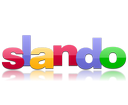
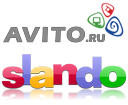
Добавлено слежение за объявлениями на Avito.ru

diff --git a/ab-tracking-advertisements/main.js b/ab-tracking-advertisements/main.js
@@ -8,17 +8,22 @@
 function main(){
 	var prefs = AnyBalance.getPreferences();
 	var region = prefs.region;
+	var region_a = prefs.region_a;
 	var pattern = prefs.pattern;
 
 
-	AnyBalance.trace('Selected region: ' + region);
+//Slando
+	AnyBalance.trace('Selected region (Slando): ' + region);
 
 	var pattern1=pattern.replace(" ","+");
 	var baseurl = 'http://'+region+'.slando.ru/list/?q='+pattern1;
+
+//Avito
+	var baseurl_a = 'http://www.avito.ru/'+region_a+'?name='+pattern1;
 	AnyBalance.setDefaultCharset('utf-8');
 
-
-	AnyBalance.trace('Starting search: ' + baseurl);
+//Slando
+	AnyBalance.trace('Starting search (Slando): ' + baseurl);
 	var info = AnyBalance.requestGet(baseurl);
 
 	var error = $('#errHolder', info).text();
@@ -30,8 +35,8 @@ function main(){
 
 	result.__tariff = pattern;
 
-	if(AnyBalance.isAvailable('found') && (matches = info.match(/<li class="fleft">\s*<span class="fleft tab selected">\s*<span class="fbold">Продам<\/span>\s*<span class="color-2 normal">(\d+)<\/span>\s*<\/span>\s*<\/li>/i))){
-		result.found = matches[1];
+	if((AnyBalance.isAvailable('found') || AnyBalance.isAvailable('found_total')) && (matches = info.match(/<li class="fleft">\s*<span class="fleft tab selected">\s*<span class="fbold">Продам<\/span>\s*<span class="color-2 normal">(\d+)<\/span>\s*<\/span>\s*<\/li>/i))){
+		result.found = parseInt(matches[1]);
 	}
 
 	var price=null;
@@ -47,7 +52,7 @@ function main(){
 			price = matches[1];
 		if(price!=null) result.last = result.last + " – " + price;
 		if(matches = info.match(/<h3 class="large lheight20 margintop10">\s*<a href="(.*?)l" class="link linkWithHash clicker {clickerID:'ads_title'}">/i))
-			AnyBalance.trace('See link to the last post: '+matches[1]);
+			AnyBalance.trace('See link to the last post (Slando): '+matches[1]);
 	}
 
 	if(AnyBalance.isAvailable('region') && (matches = info.match(/<span class="link hn"><span>\s*<strong>(.*?)<\/strong>\s*<\/span><\/span>/i))){
@@ -60,7 +65,32 @@ function main(){
 	}
 
 
+//Avito
+	AnyBalance.trace('Starting search (Avito): ' + baseurl_a);
+	var info = AnyBalance.requestGet(baseurl_a);
 
+	price=null;
+	if((AnyBalance.isAvailable('found_a') || AnyBalance.isAvailable('found_total')) && (matches = info.match(/><span class="catalog_breadcrumbs-count">, (.*?)<\/span>/i))){
+		result.found_a = parseInt(matches[1].replace("&nbsp;",""));
+	}
+	result.found_total = result.found + result.found_a;
+
+
+	if(AnyBalance.isAvailable('last_a')){
+		if(matches = info.match(/<div class="t_i_date">\s*(.*?)\s*<span class="t_i_time">(.*?)<\/span>\s*<\/div>/i)){
+			result.date_a = matches[1] + ' ' + matches[2];
+			result.date_a=result.date_a.replace(new RegExp("<.*?>",'g')," ");
+			result.date_a=result.date_a.replace(new RegExp("\s+",'g')," ");
+		}
+		if(matches = info.match(/<div class="t_i_title">\s*<h3 class="t_i_h3">\s*<a name=.*?href="(.*?)".*?>\s*(.*?)<\/a>\s*<\/h3>/i)){
+			result.last_a = matches[2];
+			AnyBalance.trace('See link to the last post (Avito): http://www.avito.ru'+matches[1]);
+		}
+		if(matches = info.match(/<\/h3>\s*<p>\s*<span>(.*?)<\/p>/i)){
+			price = matches[1].replace(new RegExp("<.*?>",'g')," ");
+			result.last_a = result.last_a + " – " + price;
+		}
+	}
 
 	AnyBalance.setResult(result);
 };
